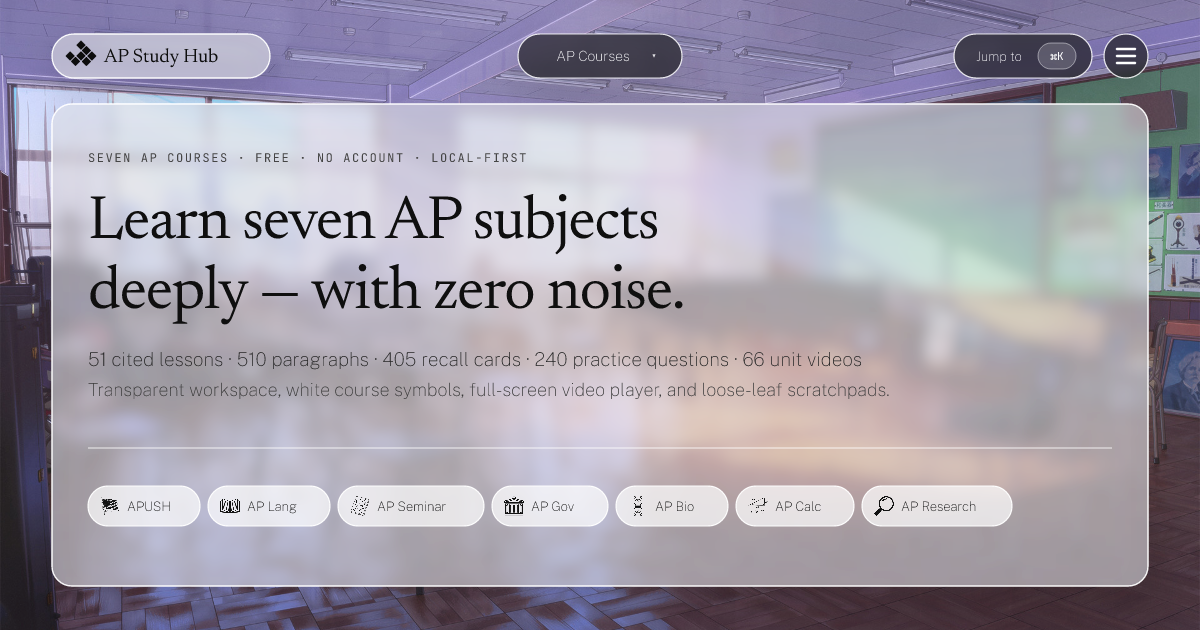
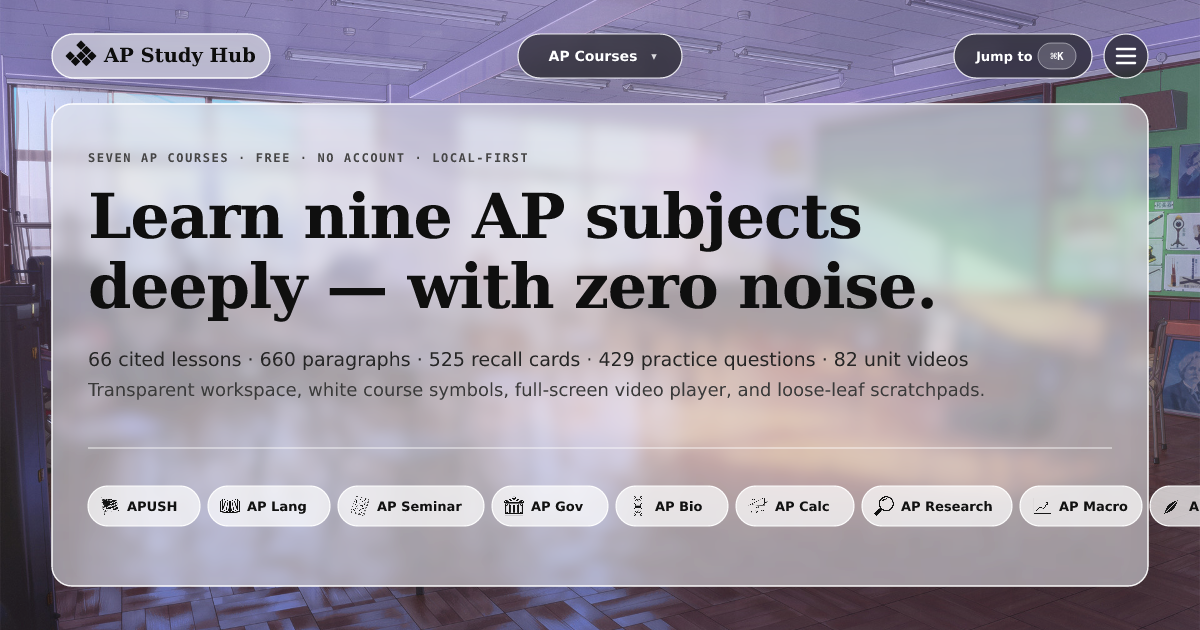
Make the AP Lit rose actually reach the browser
The rose was on the page but not on screen: /icons/ was served
cache-first by the offline worker, so anyone who had loaded the site
before kept the previous drawing forever. Icon URLs now carry
MARK_ASSET_VERSION, the worker serves artwork stale-while-revalidate on
fresh v7 caches, and the theme bootstrap purges v6 once for returning
visitors.

Also puts the mark where AP Lit is actually used: the course hero chip
no longer disappears below the sm breakpoint, the mock-exam page and the
exam-room header carry it, and the header chip renders it at 18px.
Regenerates the Open Graph cards so the social preview shows the rose.

diff --git a/public/sw.js b/public/sw.js
@@ -1,6 +1,6 @@
 /* AP Study Hub offline worker. Same-origin pages and assets only; YouTube thumbnails, opt-in player frames, and sync requests bypass this worker. */
-const PAGES = "aps-study-pages-v6";
-const ASSETS = "aps-study-assets-v6";
+const PAGES = "aps-study-pages-v7";
+const ASSETS = "aps-study-assets-v7";
 const CORE = ["/", "/study", "/videos", "/integrations", "/manifest.webmanifest", "/pwa-icon/192", "/pwa-icon/512", "/og-image.png", "/social-preview.png"];
 
 self.addEventListener("install", (event) => {
@@ -35,13 +35,23 @@ async function networkFirst(request) {
   }
 }
 
-async function cacheFirst(request) {
+/**
+ * Stale-while-revalidate for artwork.
+ *
+ * Marks and wallpapers are redrawn from time to time. Serving them cache-first
+ * meant a student who had visited before kept the old drawing forever; this
+ * returns the cached copy immediately and refreshes it for the next visit.
+ */
+async function staleWhileRevalidate(request) {
   const cache = await caches.open(ASSETS);
   const cached = await cache.match(request);
-  if (cached) return cached;
-  const response = await fetch(request);
-  if (response.ok && response.type === "basic") await cache.put(request, response.clone());
-  return response;
+  const network = fetch(request)
+    .then((response) => {
+      if (response.ok && response.type === "basic") cache.put(request, response.clone());
+      return response;
+    })
+    .catch(() => cached);
+  return cached ?? network;
 }
 
 self.addEventListener("fetch", (event) => {
@@ -52,7 +62,7 @@ self.addEventListener("fetch", (event) => {
   if (url.pathname.startsWith("/_next/static/")) {
     event.respondWith(networkFirst(request));
   } else if (url.pathname.startsWith("/fonts/") || url.pathname.startsWith("/icons/") || url.pathname.startsWith("/bg-") || url.pathname.startsWith("/pwa-icon/") || url.pathname === "/icon" || url.pathname === "/apple-icon" || url.pathname === "/og-image.png" || url.pathname === "/social-preview.png") {
-    event.respondWith(cacheFirst(request));
+    event.respondWith(staleWhileRevalidate(request));
   } else {
     event.respondWith(networkFirst(request));
   }

diff --git a/src/app/layout.tsx b/src/app/layout.tsx
@@ -10,7 +10,7 @@ import { ScrollEffects } from "@/components/ui/ScrollEffects";
 import { site, socialImages } from "@/lib/site";
 import { organizationSchema, websiteSchema, JsonLd } from "@/lib/schema";
 
-const bootstrapScript = `(function(){try{var c=localStorage.getItem("aps.theme");var m=window.matchMedia("(prefers-color-scheme: dark)").matches;if(c==="dark"||((c==="system"||!c)&&m)){document.documentElement.classList.add("dark")}document.documentElement.dataset.theme=c||"system";document.documentElement.classList.add("is-entering");window.setTimeout(function(){document.documentElement.classList.remove("is-entering")},2400);if("serviceWorker"in navigator&&localStorage.getItem("aps:sw-ver")!=="v6"){localStorage.setItem("aps:sw-ver","v6");navigator.serviceWorker.getRegistrations().then(function(rs){if(!rs.length)return;Promise.all([Promise.all(rs.map(function(r){return r.unregister()})),window.caches?caches.keys().then(function(ks){return Promise.all(ks.map(function(k){return caches.delete(k)}))}):Promise.resolve()]).then(function(){location.reload()})})}}catch(e){}})();`;
+const bootstrapScript = `(function(){try{var c=localStorage.getItem("aps.theme");var m=window.matchMedia("(prefers-color-scheme: dark)").matches;if(c==="dark"||((c==="system"||!c)&&m)){document.documentElement.classList.add("dark")}document.documentElement.dataset.theme=c||"system";document.documentElement.classList.add("is-entering");window.setTimeout(function(){document.documentElement.classList.remove("is-entering")},2400);if("serviceWorker"in navigator&&localStorage.getItem("aps:sw-ver")!=="v7"){localStorage.setItem("aps:sw-ver","v7");navigator.serviceWorker.getRegistrations().then(function(rs){if(!rs.length)return;Promise.all([Promise.all(rs.map(function(r){return r.unregister()})),window.caches?caches.keys().then(function(ks){return Promise.all(ks.map(function(k){return caches.delete(k)}))}):Promise.resolve()]).then(function(){location.reload()})})}}catch(e){}})();`;
 
 /**
  * Typography and preload.

diff --git a/src/app/course/[slug]/exam/page.tsx b/src/app/course/[slug]/exam/page.tsx
@@ -4,6 +4,7 @@ import { notFound } from "next/navigation";
 import { getCatalog, getCourse } from "@/lib/catalog";
 import { getAssessment } from "@/lib/exams";
 import { ExamHub } from "@/components/exam/ExamHub";
+import { SubjectMark } from "@/components/SubjectMark";
 import { GlassCard } from "@/components/ui/GlassCard";
 import { absoluteUrl, socialImages } from "@/lib/site";
 import { formatExamDate } from "@/lib/subjects";
@@ -52,9 +53,17 @@ export default async function ExamPage({ params }: { params: Params }) {
   return (
     <div className="wrap space-y-8 py-8 md:py-12">
       <GlassCard as="header" padding="lg" className="mx-auto max-w-5xl">
-        <p className="label mb-2">
-          Mock interim assessment · {subject.official}
-        </p>
+        <div className="mb-3 flex items-center gap-3">
+          <span
+            className="subject-accent-chip flex h-11 w-11 shrink-0 items-center justify-center rounded-xl border border-white/80 bg-white/45 dark:border-white/25 dark:bg-white/10"
+            title={subject.symbolLabel}
+          >
+            <SubjectMark subject={subject.mark} size={28} label={subject.symbolLabel} />
+          </span>
+          <p className="label mb-0">
+            {subject.familiar} · mock interim assessment
+          </p>
+        </div>
         <h2 className="text-[clamp(1.55rem,1.3rem+1.2vw,2.25rem)] font-semibold" style={{ letterSpacing: "-0.025em" }}>
           The whole exam, in the official format
         </h2>

diff --git a/src/components/exam/TimedPaper.tsx b/src/components/exam/TimedPaper.tsx
@@ -8,6 +8,7 @@ import { scheduleReview, type StudyState } from "@/lib/study-model";
 import type { SubjectSlug } from "@/lib/subjects";
 import type { Assessment, ExamFrq, ExamQuestion, Stimulus } from "@/content/exams/types";
 import { WritingCoach } from "./WritingCoach";
+import { SubjectMark } from "@/components/SubjectMark";
 import { ScoreReport } from "./ScoreReport";
 import { StimulusTable } from "./StimulusTable";
 import {
@@ -640,10 +641,15 @@ export function TimedPaper({
       >
         <header className="exam-room-bar">
           <div className="exam-room-id">
-            <p className="label">
-              {courseLabel} · Section {sectionIndex + 1} of {assessment.sections.length}
-            </p>
-            <strong>{section.name}</strong>
+            {/* The course mark rides along into the room, so the paper is
+                always identified by the same symbol as the rest of the course. */}
+            <SubjectMark subject={courseSlug} size={22} className="exam-room-symbol" />
+            <div>
+              <p className="label">
+                {courseLabel} · Section {sectionIndex + 1} of {assessment.sections.length}
+              </p>
+              <strong>{section.name}</strong>
+            </div>
           </div>
 
           <div className="exam-room-tools" role="group" aria-label="Exam tools">

diff --git a/src/components/SubjectMark.tsx b/src/components/SubjectMark.tsx
@@ -6,6 +6,16 @@ import { Logo } from "@/components/ui/Logo";
  * Renders a single `<img>` per course: crisp dark strokes in day mode, and
  * pure `#FFFFFF` white strokes in night mode (`.dark`).
  */
+/**
+ * Bumped whenever the mark artwork changes.
+ *
+ * The icons are static files under /public, and an installed offline worker
+ * serves /icons/ from its cache, so a redrawn mark can otherwise stay stale in
+ * a student's browser indefinitely. A versioned URL is a cache miss everywhere:
+ * HTTP cache, service worker cache, and the Next.js asset cache.
+ */
+const MARK_ASSET_VERSION = "2";
+
 export const subjectSymbolLabels: Record<SubjectSlug, string> = {
   apush: "U.S. flag — American history",
   "ap-lang": "Open book — rhetoric and composition",
@@ -39,8 +49,8 @@ export function SubjectMark({
   const resolvedLabel = label ?? subjectSymbolLabels[subject];
   const src =
     tone === "light"
-      ? `/icons/courses/${subject}-white.png`
-      : `/icons/courses/${subject}-dark.png`;
+      ? `/icons/courses/${subject}-white.png?v=${MARK_ASSET_VERSION}`
+      : `/icons/courses/${subject}-dark.png?v=${MARK_ASSET_VERSION}`;
 
   return (
     // eslint-disable-next-line @next/next/no-img-element

diff --git a/src/app/course/[slug]/layout.tsx b/src/app/course/[slug]/layout.tsx
@@ -46,7 +46,7 @@ export default async function CourseLayout({
           <div className="grid gap-8 lg:grid-cols-[minmax(0,1fr)_auto] lg:items-end">
             <div className="flex gap-5">
               <span
-                className="subject-accent-chip hidden h-14 w-14 shrink-0 items-center justify-center rounded-2xl border border-white/80 bg-white/45 sm:flex dark:border-white/25 dark:bg-white/10"
+                className="subject-accent-chip flex h-11 w-11 shrink-0 items-center justify-center rounded-2xl border border-white/80 bg-white/45 sm:h-14 sm:w-14 dark:border-white/25 dark:bg-white/10"
                 title={subject.symbolLabel}
               >
                 <SubjectMark subject={subject.mark} size={32} label={subject.symbolLabel} />

diff --git a/src/components/TopClassBar.tsx b/src/components/TopClassBar.tsx
@@ -99,7 +99,7 @@ export function TopClassBar() {
           {activeSubject ? (
             <SubjectMark
               subject={activeSubject.mark}
-              size={15}
+              size={18}
               label={activeSubject.symbolLabel}
               tone="auto"
             />
@@ -145,7 +145,7 @@ export function TopClassBar() {
           {activeSubject ? (
             <SubjectMark
               subject={activeSubject.mark}
-              size={14}
+              size={17}
               label={activeSubject.symbolLabel}
               tone="auto"
             />

diff --git a/src/app/globals.css b/src/app/globals.css
@@ -4632,7 +4632,8 @@ html.is-entering footer[data-site-footer] {
   background: var(--paper-raised);
 }
 
-.exam-room-id { min-width: 0; }
+.exam-room-id { display: flex; align-items: center; gap: 0.6rem; min-width: 0; }
+.exam-room-symbol { flex-shrink: 0; }
 .exam-room-id p { margin: 0 0 0.1rem; }
 .exam-room-id strong {
   display: block;

diff --git a/README.md b/README.md
@@ -83,7 +83,7 @@ Every count in the UI and metadata is computed at build time from `src/content/`
 ```
 
 ### Course marks
-Each of the ten courses has a monochrome symbol on a transparent canvas: a flag, an open book, an engraved rose, a stack of sources, a capitol, a helix, a triangle, a magnifier, a rising graph, and a leaf. **AP Literature uses the supplied rose engraving** (`assets/marks/ap-lit-rose.png`) everywhere a course symbol appears — the header chip, the course hero, the study desk, the exam briefing and the print sheets — so there is one logo and one source of truth. `scripts/build-ap-lit-mark.mjs` turns that artwork into the three shipped variants: it negates the ink to build the alpha channel, lifts the mid-tones so the hatching survives at 15px instead of dissolving into grey, then colorizes the RGB ink `#121212` or white (`node scripts/build-ap-lit-mark.mjs` rebuilds all three files). Night mode inverts the ink file and each course also ships a white variant for permanently dark badges; `pnpm validate:presentation` decodes every one of those PNGs and asserts the white variants really are white, so a mark can no longer ship invisible. AP Literature also carries its own accent colour, an iron-gall indigo (`#423a9e`) that sits clear of AP Language's navy and AP Seminar's plum.
+Each of the ten courses has a monochrome symbol on a transparent canvas: a flag, an open book, an engraved rose, a stack of sources, a capitol, a helix, a triangle, a magnifier, a rising graph, and a leaf. **AP Literature uses the supplied rose engraving** (`assets/marks/ap-lit-rose.png`) everywhere a course symbol appears — the header chip, the course hero, the course cards, the study desk, the mock-exam page and the exam-room header — so there is one logo and one source of truth. `SubjectMark` appends a version query to the icon URL and the offline worker serves `/icons/` stale-while-revalidate, so a redrawn mark can never be held hostage by a browser or service-worker cache. `scripts/build-ap-lit-mark.mjs` turns that artwork into the three shipped variants: it negates the ink to build the alpha channel, lifts the mid-tones so the hatching survives at 15px instead of dissolving into grey, then colorizes the RGB ink `#121212` or white (`node scripts/build-ap-lit-mark.mjs` rebuilds all three files). Night mode inverts the ink file and each course also ships a white variant for permanently dark badges; `pnpm validate:presentation` decodes every one of those PNGs and asserts the white variants really are white, so a mark can no longer ship invisible. AP Literature also carries its own accent colour, an iron-gall indigo (`#423a9e`) that sits clear of AP Language's navy and AP Seminar's plum.
 
 ### Interactive labs, one per course
 `/course/<slug>/studio` opens an interactive lab for every course — all ten, without exception: a poetry close-reading annotation lab for AP Lit (Dickinson, with model commentary on personification, dashes and the final stanza's reordering of time), a rhetorical annotation lab for AP Lang, a document annotation lab for APUSH, a required-case matching lab for AP Gov, data-analysis labs for AP Bio, AP Macro and AP Environmental Science, calculus labs with sliders for AP Calc, a source-synthesis matrix for AP Seminar, and a question-and-defence rehearsal for AP Research.
